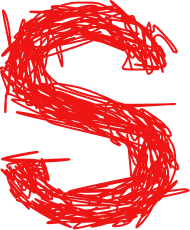
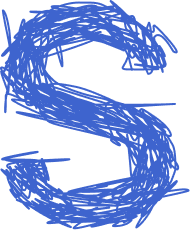
Change primary color to blue, and add blurr to header

diff --git a/src/components/BackflipAnimation.tsx b/src/components/BackflipAnimation.tsx
@@ -1,0 +1,72 @@
+import { useState, useEffect } from "react";
+
+const keyframes = [
+  "../../animations/backflip/P_1.png",
+  "../../animations/backflip/P_2.png",
+  "../../animations/backflip/P_3.png",
+  "../../animations/backflip/P_4.png",
+  "../../animations/backflip/P_5.png",
+  "../../animations/backflip/P_6.png",
+  "../../animations/backflip/P_7.png",
+  "../../animations/backflip/P_8.png",
+  "../../animations/backflip/P_9.png",
+  "../../animations/backflip/P_10.png",
+  "../../animations/backflip/P_11.png",
+  "../../animations/backflip/P_12.png",
+  "../../animations/backflip/P_13.png",
+  "../../animations/backflip/P_14.png",
+  "../../animations/backflip/P_15.png",
+  "../../animations/backflip/P_16.png",
+  "../../animations/backflip/P_17.png",
+  "../../animations/backflip/P_18.png",
+  "../../animations/backflip/P_19.png",
+  "../../animations/backflip/P_20.png",
+  "../../animations/backflip/P_21.png",
+  "../../animations/backflip/P_22.png",
+  "../../animations/backflip/P_23.png",
+  "../../animations/backflip/P_24.png",
+  "../../animations/backflip/P_25.png",
+  "../../animations/backflip/P_26.png",
+  "../../animations/backflip/P_27.png",
+  "../../animations/backflip/P_28.png",
+  "../../animations/backflip/P_29.png",
+  "../../animations/backflip/P_30.png",
+  "../../animations/backflip/P_31.png",
+  "../../animations/backflip/P_32.png",
+];
+
+export default function BackflipAnimation({
+  isHovered,
+}: {
+  isHovered: boolean;
+}) {
+  const [frame, setFrame] = useState(0);
+
+  useEffect(() => {
+    if (!isHovered) {
+      setFrame(0);
+      return;
+    }
+
+    const interval = setInterval(() => {
+      setFrame((current) => (current + 1) % keyframes.length);
+    }, 100);
+
+    return () => clearInterval(interval);
+  }, [isHovered]);
+
+  return (
+    <div className="flex flex-row items-end">
+      <img
+        src={keyframes[frame]}
+        alt="backflip animation"
+        className="h-6 md:h-9 lg:h-10 w-auto object-contain"
+      />
+      <img
+        src={"../../animations/backflip/rojects.png"}
+        alt="Projects"
+        className="h-5 md:h-7 lg:h-8 w-auto object-contain"
+      />
+    </div>
+  );
+}

diff --git a/src/components/header.tsx b/src/components/header.tsx
@@ -1,23 +1,39 @@
+"use client";
+import { useState } from "react";
 import Link from "next/link";
 import Logo from "./Logo";
+import BackflipAnimation from "./BackflipAnimation";
 
 export default function Header() {
+  const [projectsHovered, setProjectsHovered] = useState(false);
   return (
-    <header className="sticky top-0 z-50 w-full bg-white">
-      <div className=" mx-auto flex items-center justify-between px-4 py-4 md:px-8 lg:px-12  ">
-        <Link
-          href="/"
-          className="font-display font-semibold text-lg md:text-xl lg:text-3xl duration-300 hover:tracking-wide cursor-pointer "
-        >
-          <Logo />
-        </Link>
-        <Link
-          href="/#projects"
-          className="text-xl duration-300 hover:tracking-wide "
-        >
-          Projects
-        </Link>
+    <header className="sticky top-0 z-50 w-full">
+      <div className=" backdrop-blur-2xl">
+        <div className=" mx-auto flex items-center justify-between px-4 py-4 md:px-8 lg:px-12  ">
+          <Link
+            href="/"
+            className="font-display font-semibold text-lg md:text-xl lg:text-3xl duration-300 hover:tracking-wide cursor-pointer "
+          >
+            <Logo />
+          </Link>
+          <a
+            href="#projects"
+            onMouseEnter={() => setProjectsHovered(true)}
+            onMouseLeave={() => setProjectsHovered(false)}
+          >
+            <BackflipAnimation isHovered={projectsHovered} />
+          </a>
+        </div>
       </div>
+      <div
+        className="
+  pointer-events-none
+  absolute left-0 right-0 top-full
+  h-15
+  backdrop-blur-md
+  [mask-image:linear-gradient(to_bottom,black_0%,transparent_100%)]
+  "
+      />
     </header>
   );
 }

diff --git a/src/components/LoadingAnimation.tsx b/src/components/LoadingAnimation.tsx
@@ -1,0 +1,35 @@
+import { useState, useEffect } from "react";
+
+const keyframes = [
+  "../../animations/loading/Loading_01.png",
+  "../../animations/loading/Loading_02.png",
+  "../../animations/loading/Loading_03.png",
+  "../../animations/loading/Loading_04.png",
+  "../../animations/loading/Loading_05.png",
+  "../../animations/loading/Loading_06.png",
+  "../../animations/loading/Loading_07.png",
+  "../../animations/loading/Loading_08.png",
+  "../../animations/loading/Loading_09.png",
+  "../../animations/loading/Loading_10.png",
+  "../../animations/loading/Loading_11.png",
+];
+
+export default function LoadingAnimation() {
+  const [frame, setFrame] = useState(0);
+
+  useEffect(() => {
+    const interval = setInterval(() => {
+      setFrame((current) => (current + 1) % keyframes.length);
+    }, 50);
+
+    return () => clearInterval(interval);
+  }, []);
+
+  return (
+    <img
+      src={keyframes[frame]}
+      alt="loadingicon"
+      className="w-16 h-16 object-contain"
+    />
+  );
+}

diff --git a/src/app/globals.css b/src/app/globals.css
@@ -2,8 +2,8 @@
 @plugin "@tailwindcss/typography";
 
 :root {
-    --background: #FFFDFA;
-    --foreground: #ff0000;
+    --background: ##f4f5ee;
+    --foreground: #3E64CE;
 }
 
 @theme inline {
@@ -15,8 +15,8 @@
 
 @media (prefers-color-scheme: dark) {
   :root {
-    --background: #FFFDFA;
-    --foreground: #ff0000;
+    --background: ##f4f5ee;
+    --foreground: #3E64CE;
   }
 }
 
